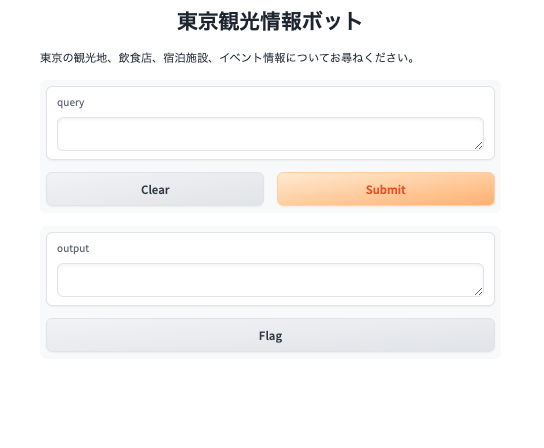
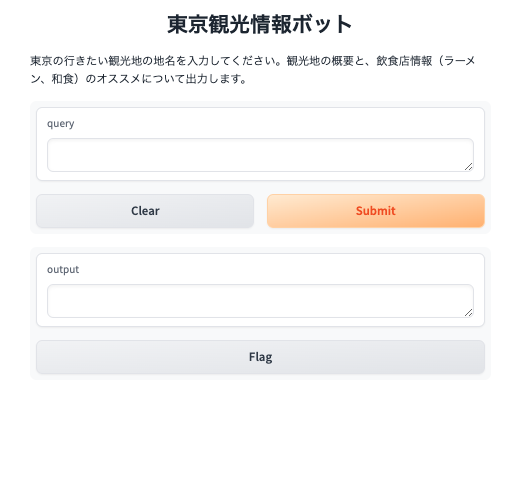
💄 おすすめ飲食店をラーメンと和食のお店を５つづつ表示することに変更

diff --git a/main.py b/main.py
@@ -1,74 +1,39 @@
-import gradio as gr  # Gradioライブラリをインポート（ユーザーインターフェース作成用）
-import openai  # OpenAIのAPIを利用するためのライブラリをインポート
-import os  # OSモジュールをインポート（環境変数の取得に使用）
-import requests  # HTTPリクエストを送るためのライブラリをインポート
-from dotenv import load_dotenv  # .envファイルから環境変数を読み込むためのライブラリをインポート
+import gradio as gr
+import os
+from dotenv import load_dotenv
+import openai
+from api_handlers import fetch_tourist_spots, fetch_restaurants_by_keyword
 
-load_dotenv()  # .envファイルから環境変数を読み込む
-openai.api_key = os.getenv("OPENAI_API_KEY")  # 環境変数からOpenAIのAPIキーを取得して設定
+# 環境変数をロード
+load_dotenv()
+# OpenAIのAPIキーを設定
+openai.api_key = os.getenv("OPENAI_API_KEY")
 
-# 観光地の説明を取得する関数
-def fetch_tourist_spots(area_name):
-    prompt = f"{area_name}の観光地について200文字以内で説明してください。"  # プロンプトを設定
-    response = openai.ChatCompletion.create(
-        model="gpt-3.5-turbo",
-        messages=[{"role": "system", "content": "You are a helpful assistant."},
-                  {"role": "user", "content": prompt}]
-    )
-    summary = response['choices'][0]['message']['content'].strip()  # 応答から要約を取得し、前後の空白を削除
-    return summary[:200]  # 応答を200文字に制限して返す
-
-# レストラン情報をフリーワード検索で取得する関数
-def fetch_restaurants_by_keyword(keyword):
-    url = "http://webservice.recruit.co.jp/hotpepper/gourmet/v1/"  # APIのURL
-    params = {
-        "key": os.getenv("HOT_PEPPER_API"),  # 環境変数からAPIキーを取得
-        "keyword": keyword,  # 検索キーワード
-        "order": 4,  # ソート順
-        "count": 5,  # 取得件数
-        "format": "json"  # レスポンスフォーマット
-    }
-    response = requests.get(url, params=params)  # HTTP GETリクエストを送信
-    if response.status_code != 200:
-        print(f"Error: {response.status_code}, {response.text}")  # エラーがあれば表示
-        return []
-    data = response.json()  # レスポンスからJSONデータを取得
-
-    if 'results' in data and 'shop' in data['results']:
-        shops = [
-            {
-                'name': shop['name'],  # 店名
-                'tel': shop.get('tel', '情報なし'),  # 電話番号（なければ「情報なし」）
-                'genre': shop['genre']['name'],  # ジャンル
-                'budget': shop['budget']['average'],  # 平均予算
-                'recommended_dish': shop.get('recommended_dish', '情報なし'),  # おすすめ料理（なければ「情報なし」）
-                'url': shop['urls']['pc']  # URL
-            } for shop in data['results']['shop']
-        ]
-        return shops
-    else:
-        print("No shops found in API response.")  # 店舗情報がなければメッセージを表示
-        return []
-
-# クエリに応答する関数
 def respond_to_query(query):
-    tourist_spot_description = fetch_tourist_spots(query)  # 観光地情報を取得
-    response_text = f"観光地の概要（{query}）:\n{tourist_spot_description}\n\n"  # 応答テキストを構築
+    # 観光地の概要を取得
+    tourist_spot_description = fetch_tourist_spots(query)
+    response_text = f"観光地の概要（{query}）:\n{tourist_spot_description}\n\n"
+    # 飲食店情報を取得
+    restaurants_by_genre = fetch_restaurants_by_keyword(query)
+    if not restaurants_by_genre:
+        restaurant_text = "レストラン情報が取得できませんでした。"
+    else:
+        restaurant_text = "おすすめの飲食店:"
+        for genre, restaurants in restaurants_by_genre.items():
+            restaurant_text += f"\n\n{genre}:\n" + "\n".join(
+                f"{i+1}. {r['name']} - TEL: {r['tel']} - ジャンル: {r['genre']} - 予算: {r['budget']} - おすすめ料理: {r['recommended_dish']} - 口コミ数: {r['review_count']} - 詳細: {r['url']}"
+                for i, r in enumerate(restaurants)
+            )
 
-    restaurants = fetch_restaurants_by_keyword(query)  # レストラン情報を取得
-    restaurant_text = "レストラン情報が取得できませんでした。" if not restaurants else "安価でおすすめの飲食店（大衆向け）:\n" + "\n".join(
-        f"{i+1}. {r['name']} - TEL: {r['tel']} - {r['genre']} - {r['budget']} - おすすめ料理: {r['recommended_dish']} - 詳細: {r['url']}"
-        for i, r in enumerate(restaurants)
-    )
+    return response_text + restaurant_text
 
-    return response_text + restaurant_text  # 最終的な応答テキストを返す
-
-# Gradioインターフェースの設定
+# Gradioインターフェースを設定
 interface = gr.Interface(
     fn=respond_to_query,
     inputs="text",
     outputs="text",
     title="東京観光情報ボット",
-    description="東京の観光地、飲食店、宿泊施設、イベント情報についてお尋ねください。"
+    description="東京の行きたい観光地の地名を入力してください。観光地の概要と、飲食店情報（ラーメン、和食）のオススメについて出力します。"
 )
-interface.launch()  # Gradioアプリケーションを起動
+# インターフェースを起動
+interface.launch()

diff --git a/api_handlers.py b/api_handlers.py
@@ -1,49 +1,60 @@
-import requests  # HTTPリクエストを送るためのライブラリをインポート
-import os  # OSモジュールをインポート（環境変数の取得に使用）
-from dotenv import load_dotenv  # .envファイルから環境変数を読み込むためのライブラリをインポート
-import openai  # OpenAIのAPIを利用するためのライブラリをインポート
+import requests
+import os
+from dotenv import load_dotenv
+import openai
 
-load_dotenv()  # .envファイルから環境変数を読み込む
+# 環境変数をロード
+load_dotenv()
 
-# レストラン情報をフリーワード検索で取得する関数
 def fetch_restaurants_by_keyword(keyword):
-    url = "http://webservice.recruit.co.jp/hotpepper/gourmet/v1/"  # APIのURL
-    params = {
-        "key": os.getenv("HOT_PEPPER_API"),  # 環境変数からAPIキーを取得
-        "keyword": keyword,  # 検索キーワード
-        "order": 4,  # ソート順
-        "count": 5,  # 取得件数
-        "format": "json"  # レスポンスフォーマット
-    }
-    response = requests.get(url, params=params)  # HTTP GETリクエストを送信
-    if response.status_code != 200:
-        print(f"Error: {response.status_code}, {response.text}")  # エラーがあれば表示
-        return []
-    data = response.json()  # レスポンスからJSONデータを取得
+    url = "http://webservice.recruit.co.jp/hotpepper/gourmet/v1/"
+    genre_results = {}
+    
+    # ラーメンと寿司のジャンルコードを指定
+    genres = {"ラーメン": "G013", "和食": "G004"}
+    
+    for genre_name, genre_code in genres.items():
+        results = []
+        params = {
+            "key": os.getenv("HOT_PEPPER_API"),
+            "keyword": keyword,
+            "genre": genre_code,
+            "order": 4,  # おすすめ順
+            "count": 5,  # 5件ずつ取得
+            "format": "json"
+        }
+        response = requests.get(url, params=params)
+        if response.status_code != 200:
+            print(f"Error: {response.status_code}, {response.text}")
+            continue
+        data = response.json()
 
-    if 'results' in data and 'shop' in data['results']:
-        shops = [
-            {
-                'name': shop['name'],  # 店名
-                'tel': shop['tel'],  # 電話番号
-                'genre': shop['genre']['name'],  # ジャンル
-                'budget': shop['budget']['average'],  # 平均予算
-                'recommended_dish': shop.get('recommended_dish', '情報なし'),  # おすすめ料理（なければ「情報なし」）
-                'url': shop['urls']['pc']  # URL
-            } for shop in data['results']['shop']
-        ]
-        return shops
-    else:
-        print("No shops found in API response.")  # 店舗情報がなければメッセージを表示
-        return []
+        if 'results' in data and 'shop' in data['results']:
+            shops = data['results']['shop']
+            for shop in shops:
+                results.append({
+                    'name': shop['name'],
+                    'tel': shop.get('tel', '情報なし'),
+                    'genre': genre_name,  # 確実にジャンル名を設定
+                    'budget': shop['budget']['average'],
+                    'recommended_dish': shop.get('recommended_dish', '情報なし'),
+                    'url': shop['urls']['pc'],
+                    'review_count': shop.get('review_count', '情報なし')
+                })
+            genre_results[genre_name] = results
+        else:
+            print(f"No {genre_name} shops found in API response.")
+            genre_results[genre_name] = []
 
-# 観光地情報を取得する関数
+    return genre_results
+
 def fetch_tourist_spots(area_name):
-    prompt = f"{area_name}の観光地について200文字で説明してください。"  # プロンプトを設定
+    # ChatGPTを使用して観光地の概要を取得
+    prompt = f"{area_name}の観光地について200文字で説明してください。"
     response = openai.ChatCompletion.create(
         model="gpt-3.5-turbo",
         messages=[{"role": "system", "content": "You are a helpful assistant."},
                   {"role": "user", "content": prompt}]
     )
-    summary = response['choices'][0]['message']['content'].strip()  # 応答から要約を取得し、前後の空白を削除
-    return summary[:200]  # 応答を200文字に制限して返す
+    summary = response['choices'][0]['message']['content'].strip()
+    return summary[:200]
